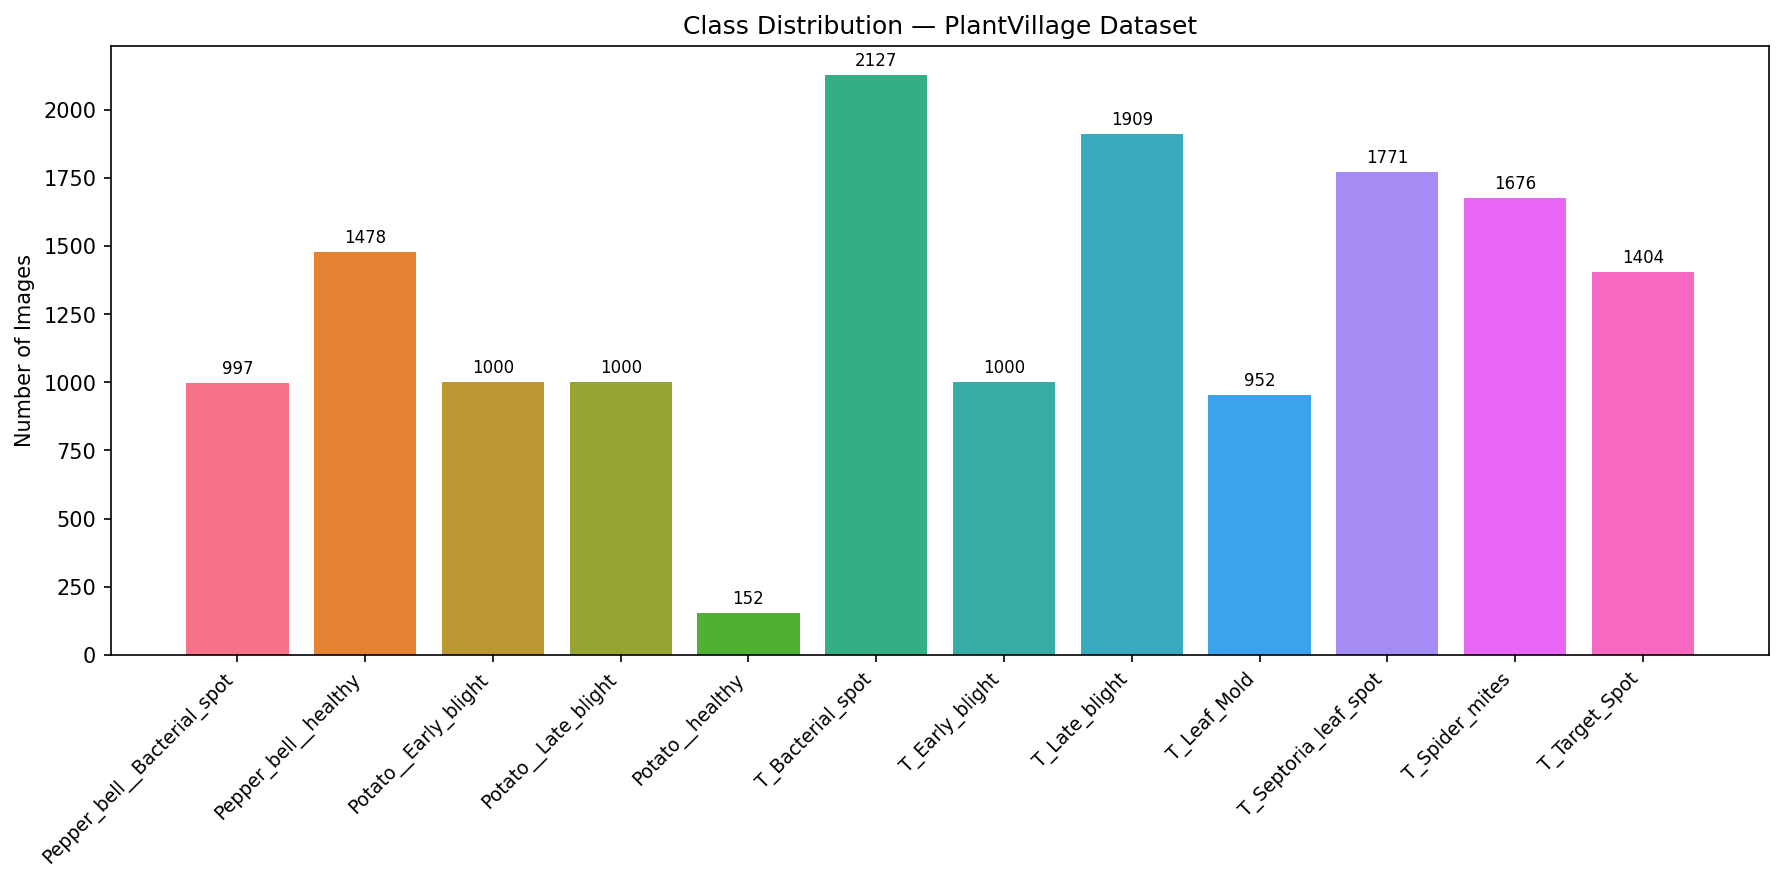
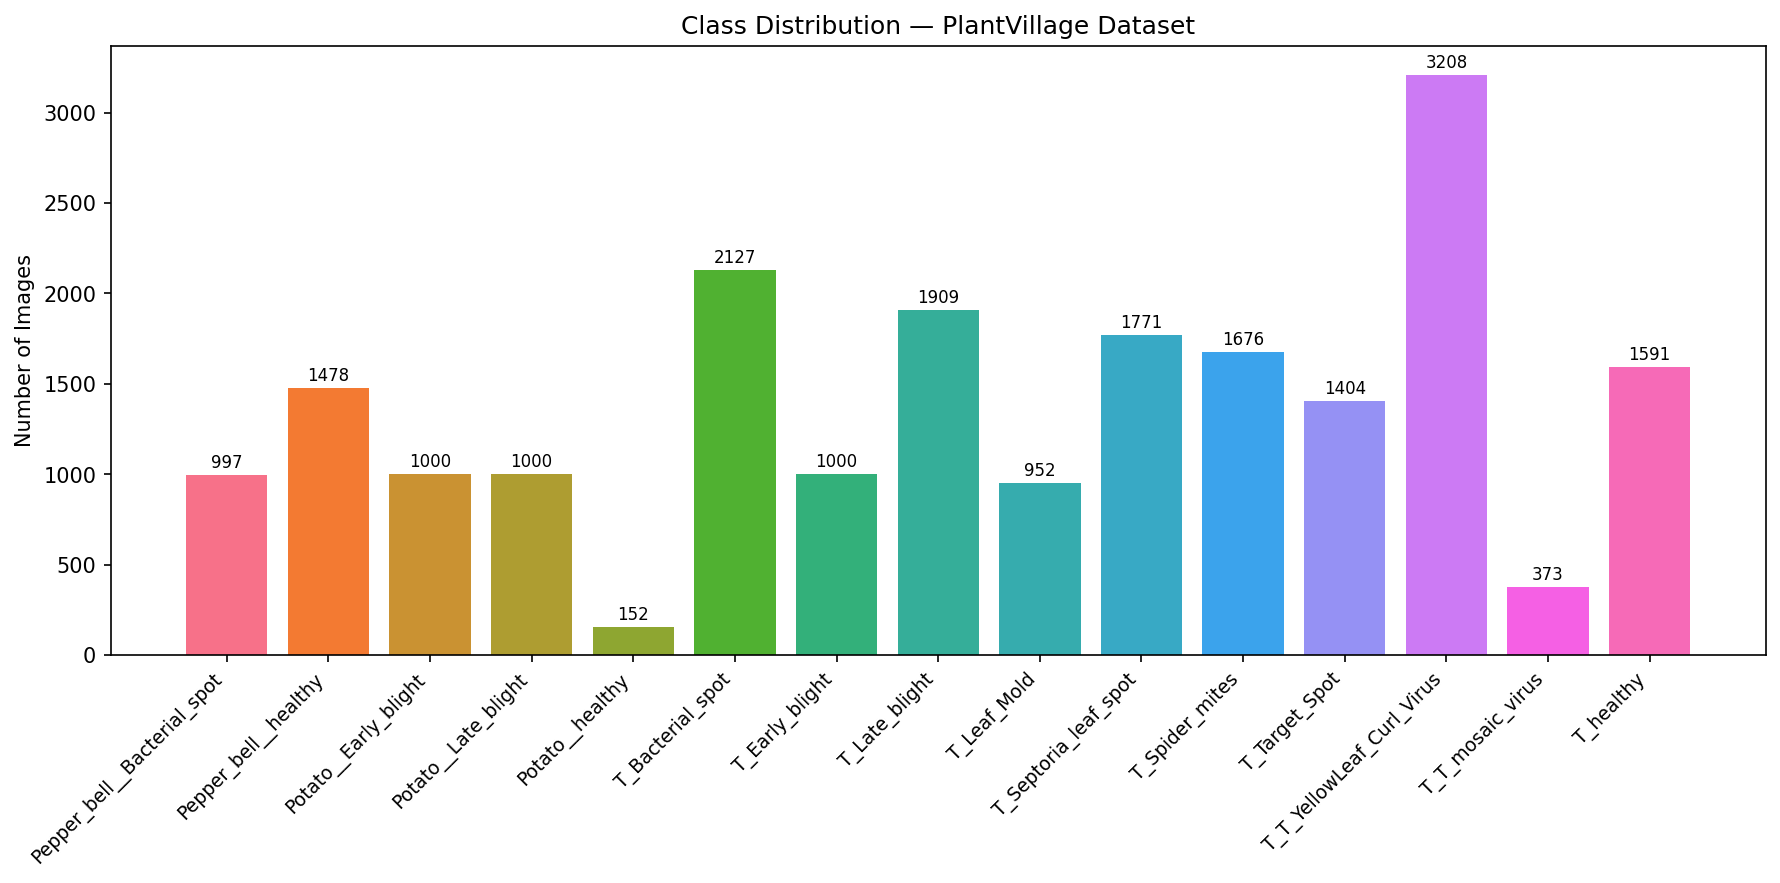
docs: update dataset info to 15 classes / 20,638 images; add CV results and training plots

diff --git a/README.md b/README.md
@@ -4,7 +4,7 @@ PV056 ML & DM Semestral Project (MUNI, 2026)
 
 ## Overview
 
-Plant disease classification using contrastive/triplet learning on the PlantVillage dataset (15,466 images, 12 classes).
+Plant disease classification using contrastive/triplet learning on the PlantVillage dataset (20,638 images, 15 classes).
 
 - **Subtask a**: Supervised classification with triplet loss + 5-fold CV (target: F1macro > 0.76)
 - **Subtask b**: Unknown disease detection — exclude `Tomato_Bacterial_spot`, detect it as unknown via Mahalanobis distance thresholding
@@ -73,7 +73,7 @@ scripts/
 
 ## Dataset
 
-PlantVillage subset — 12 classes:
+PlantVillage subset — 15 classes:
 
 | Class | Count |
 |-------|-------|
@@ -89,4 +89,7 @@ PlantVillage subset — 12 classes:
 | Tomato Septoria leaf spot | 1,771 |
 | Tomato Spider mites | 1,676 |
 | Tomato Target Spot | 1,404 |
-| **Total** | **15,466** |
+| Tomato YellowLeaf Curl Virus | 3,208 |
+| Tomato mosaic virus | 373 |
+| Tomato healthy | 1,591 |
+| **Total** | **20,638** |

diff --git a/CLAUDE.md b/CLAUDE.md
@@ -22,9 +22,10 @@ NVIDIA CUDA GPU available locally.
 
 ## Dataset
 
-PlantVillage at `data/PlantVillage/` — 12 classes, 15,466 images. Already gitignored.
+PlantVillage at `data/PlantVillage/` — 15 classes, 20,638 images. Already gitignored.
 - Smallest class: `Potato___healthy` (152 images)
-- Largest class: `Tomato_Bacterial_spot` (2,127 images) — this is the unknown class for subtask b
+- Largest class: `Tomato__Tomato_YellowLeaf__Curl_Virus` (3,208 images)
+- Unknown class for subtask b: `Tomato_Bacterial_spot` (2,127 images)
 - Class folder names use underscores/double-underscores inconsistently — always use `config.classes` list
 
 ## Architecture
